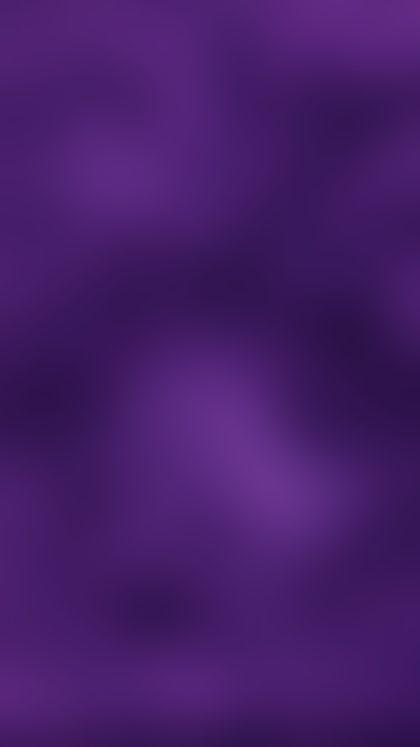
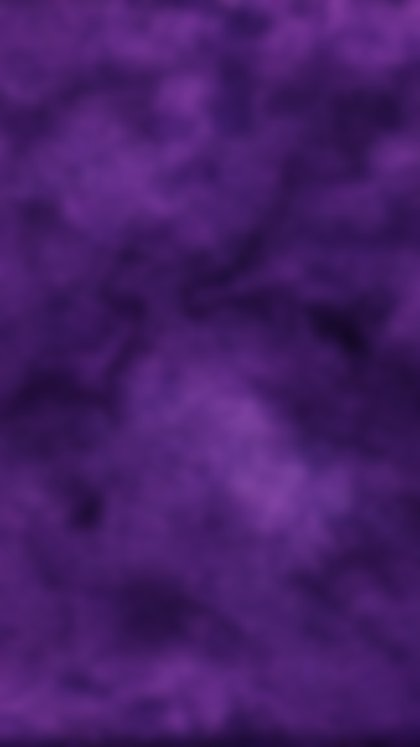
Fix the violet ground — blur order was crushing the watercolor texture
The first bake cropped and downscaled to 420x747 BEFORE blurring, then
applied a 26px blur at that final small size. A 26px blur on a 420px-wide
image is enormous relative to the content, and it flattened 4.jpg's smoky
watercolor into a near-solid gradient — exactly the loss of definition,
smokiness and brightness reported.

tools/make-ground.py now blurs at native resolution and downscales after,
the same order forest-bg.jpg was built with (that's why its bokeh shapes
survive its blur). Radius dropped from 26 to 6 to match — there's no
transferable 'right' number between sources, it's judged by eye against
how much detail the source carries.

Contrast re-verified against the new, more textured ground: worst-case
text 10.1:1, muted 4.9:1 (both still clear AA), faint 2.75:1 (unchanged,
already documented decorative-only).

diff --git a/sw.js b/sw.js
@@ -1,4 +1,4 @@
-const CACHE = 'mgt-v20';
+const CACHE = 'mgt-v21';
 const ASSETS = ['./', './index.html', './manifest.json',
   './assets/fonts/eb-garamond-400-normal.woff2','./assets/fonts/eb-garamond-400-italic.woff2',
   './assets/fonts/ibm-plex-mono-400-normal.woff2','./assets/fonts/ibm-plex-mono-500-normal.woff2','./assets/fonts/ibm-plex-mono-600-normal.woff2',
